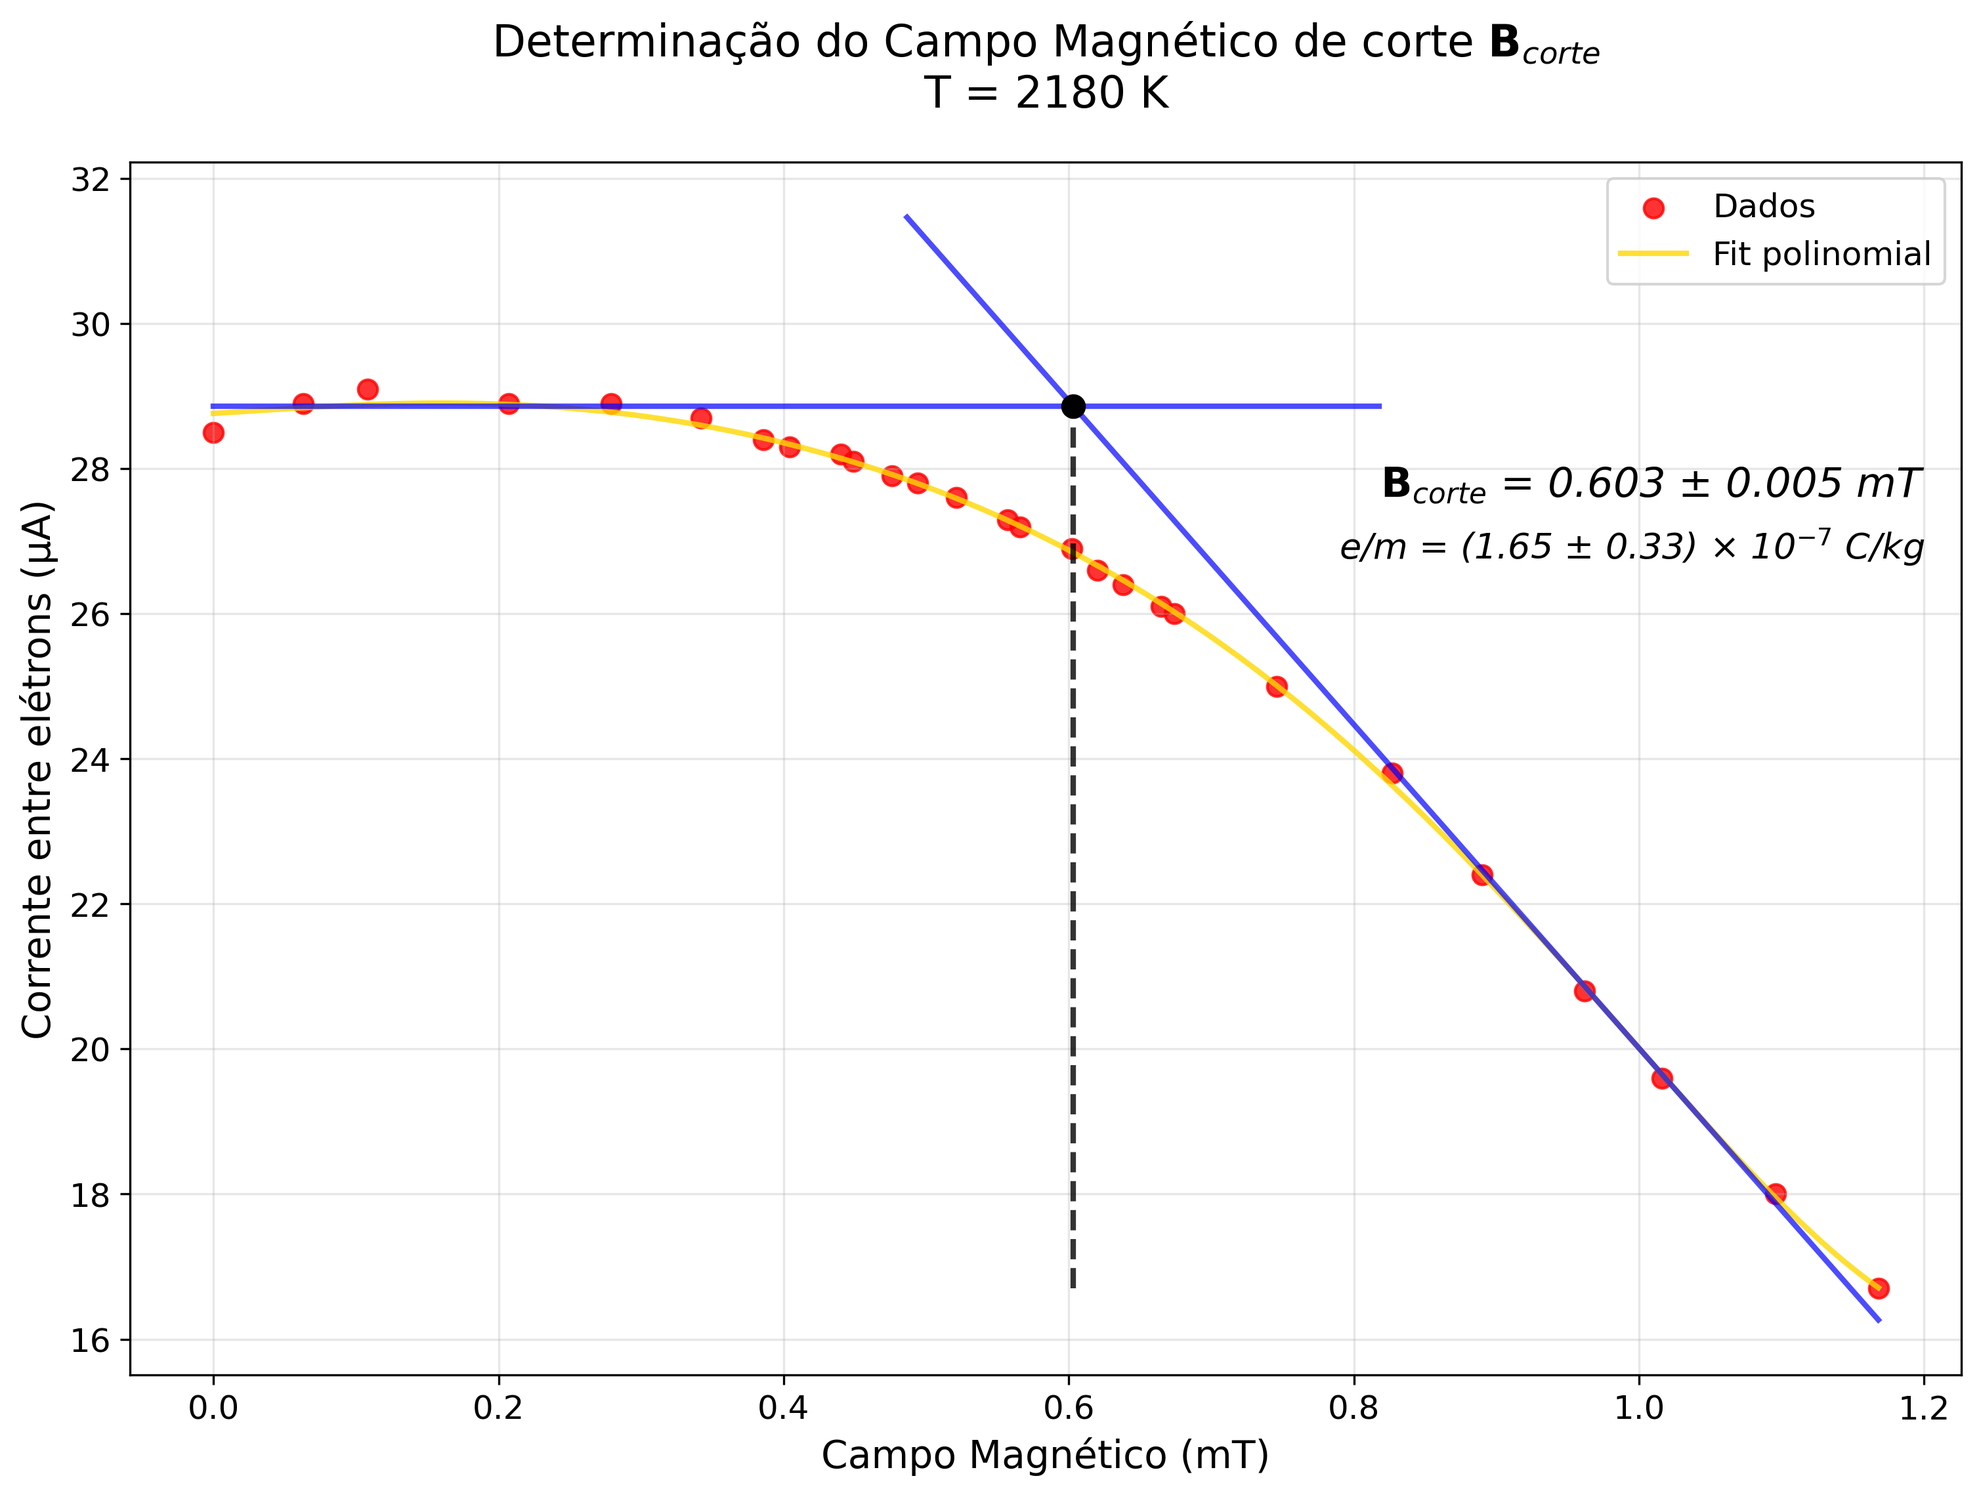
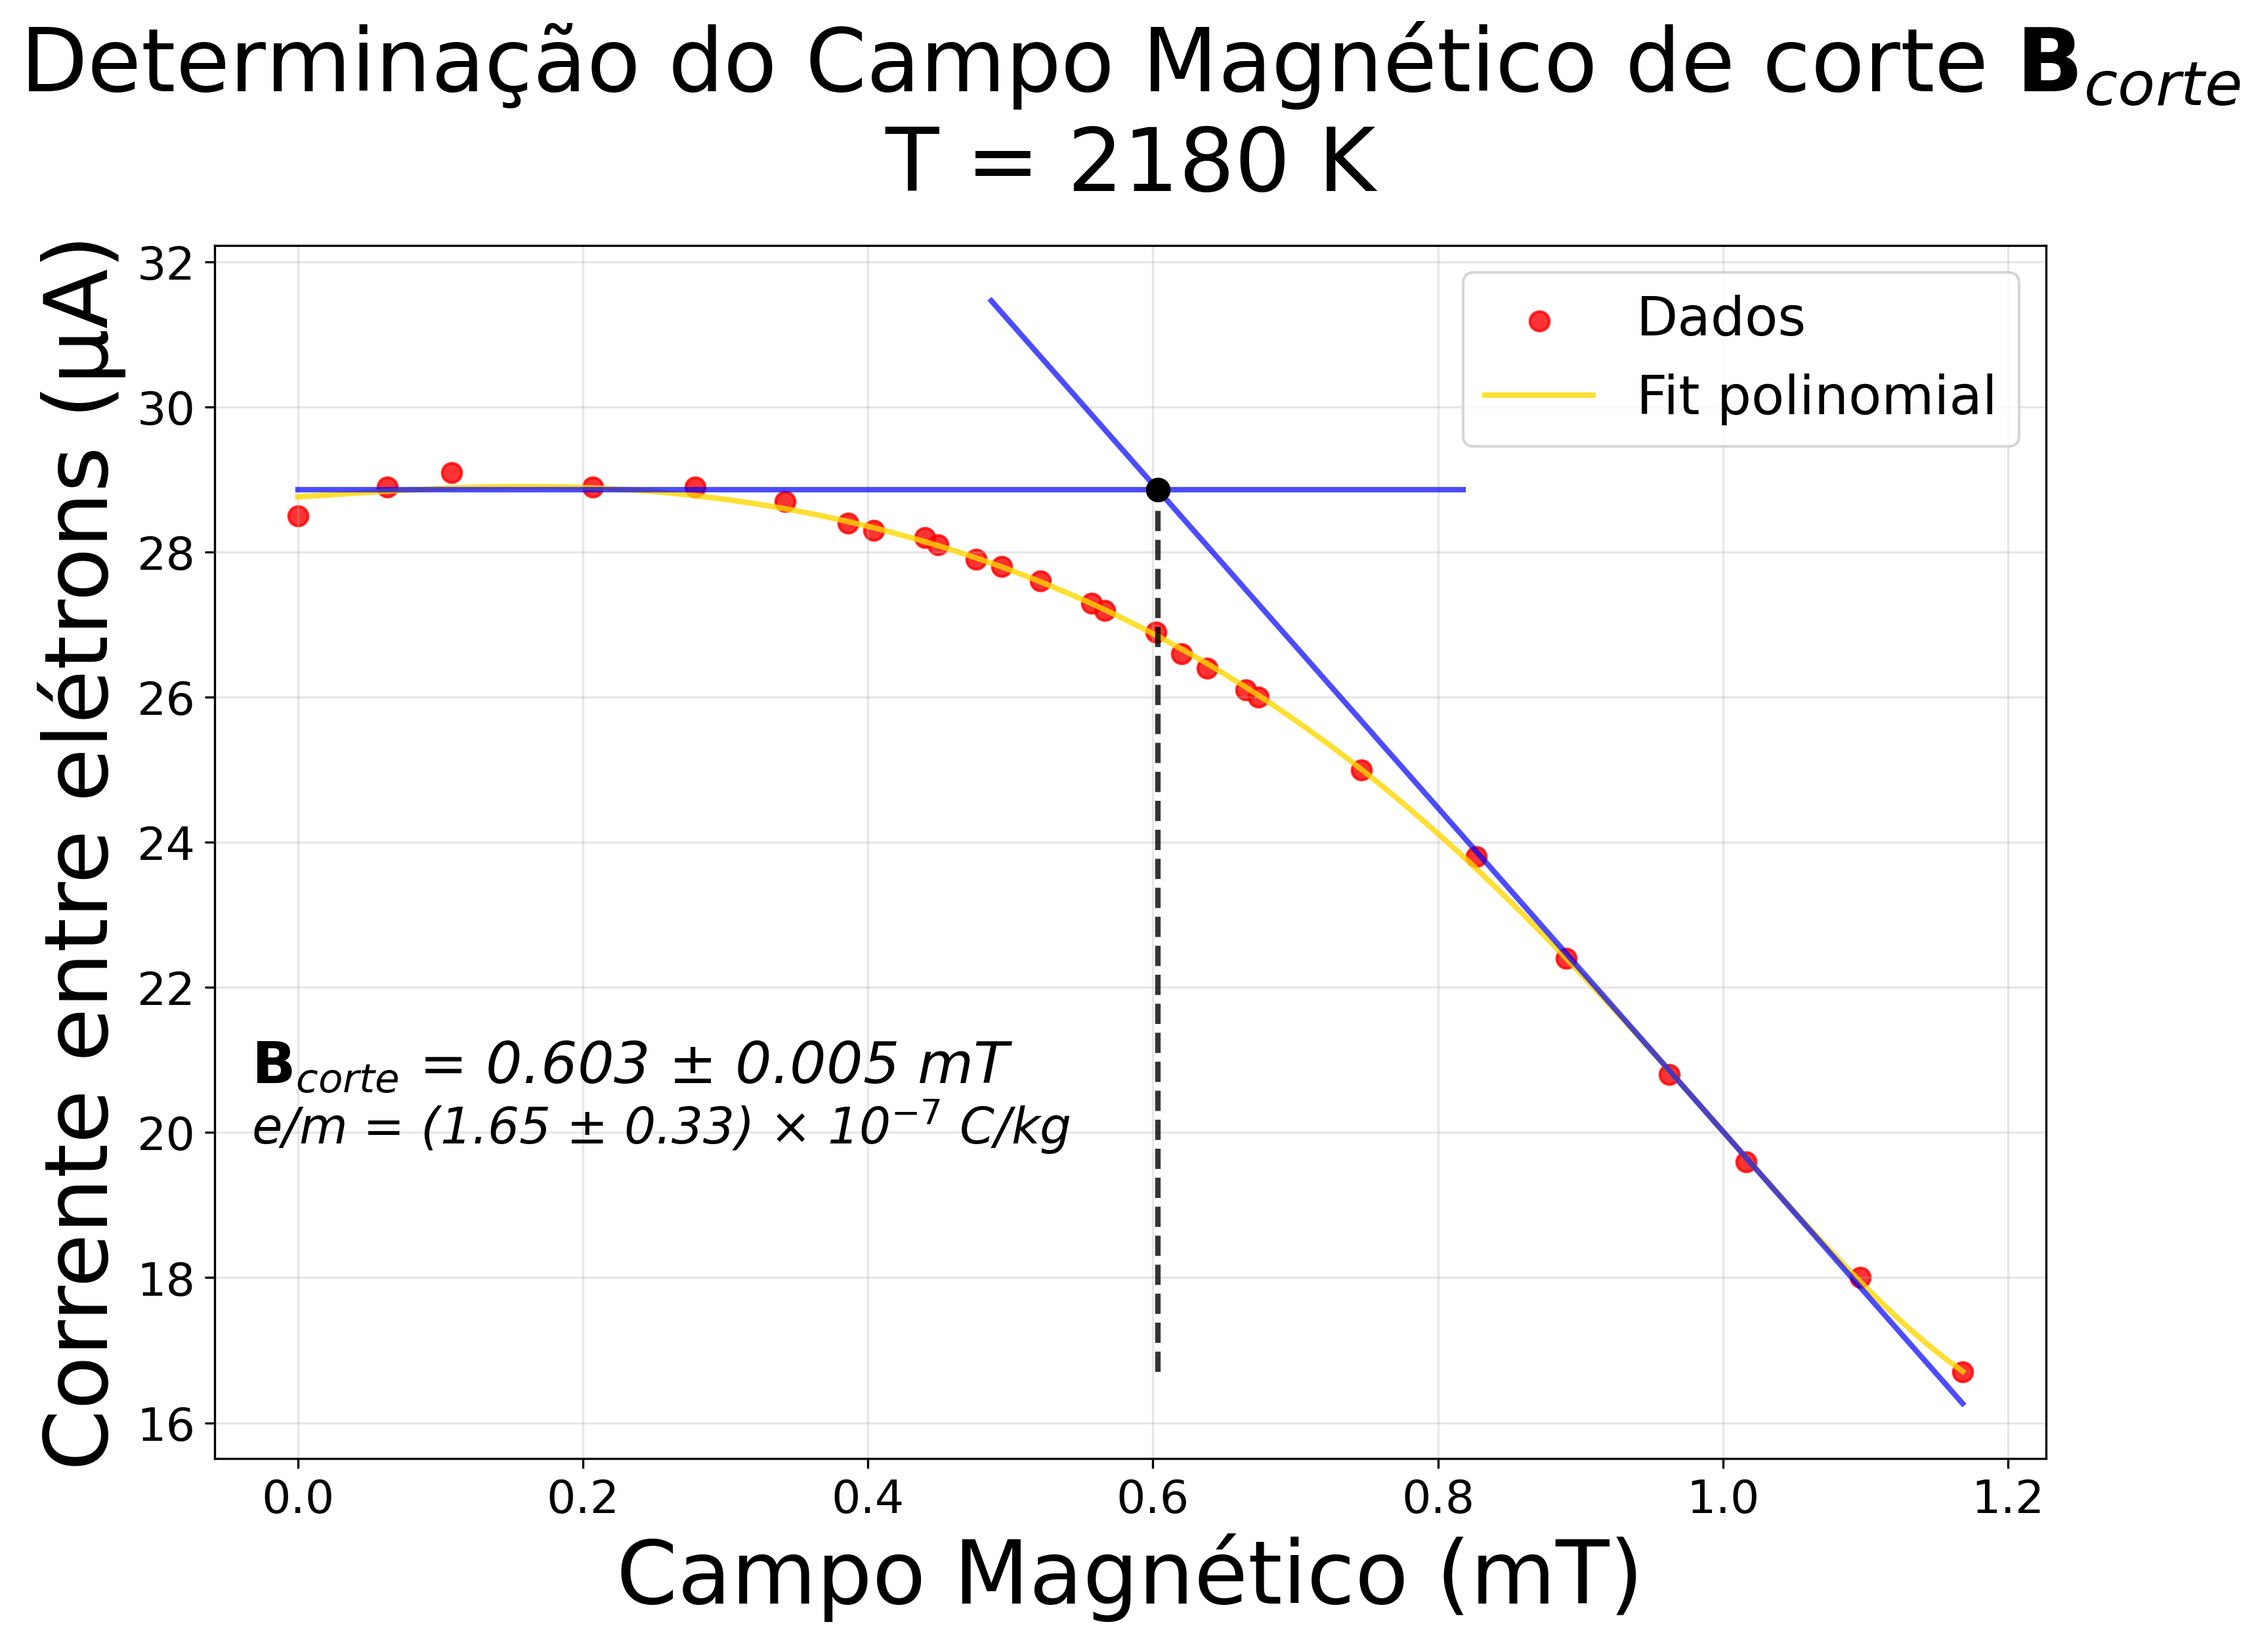
push

diff --git a/1-Termionico/graph5.py b/1-Termionico/graph5.py
@@ -8,7 +8,7 @@ import os
 
 # Configurar matplotlib para melhor visualização
 plt.rcParams['figure.figsize'] = (10, 8)
-plt.rcParams['font.size'] = 12
+plt.rcParams['font.size'] = 16.8
 
 # Função para converter strings com vírgula para float
 def convert_to_float(value):
@@ -435,12 +435,12 @@ for i, info in enumerate(dados):
         print(f"  Erro na segunda reta azul: {e}")
     
     # Configurar o gráfico com novos rótulos
-    ax.set_xlabel('Campo Magnético (mT)', fontsize=14)
-    ax.set_ylabel('Corrente entre elétrons (μA)', fontsize=14)
+    ax.set_xlabel('Campo Magnético (mT)', fontsize=32.032)
+    ax.set_ylabel('Corrente entre elétrons (μA)', fontsize=32.032)
     ax.set_title(f'Determinação do Campo Magnético de corte $\\mathbf{{B}}_{{corte}}$\nT = {temp_kelvin} K', 
-                fontsize=16, pad=20)
+                fontsize=32.032, pad=20)
     ax.grid(True, alpha=0.3)
-    ax.legend(loc='upper right', fontsize=12)
+    ax.legend(loc='upper right', fontsize=19.76)
     
     # Adicionar texto com Bcorte e e/m abaixo da legenda (incluindo incertezas)
     try:
@@ -451,9 +451,9 @@ for i, info in enumerate(dados):
                 em_ratio, sigma_em = calcular_incerteza_em(bcorte_value, bcorte_uncertainty)
                 
                 # Posicionar texto com Bcorte COM incerteza (mais alto)
-                ax.text(0.98, 0.75, f'$\\mathbf{{B}}_{{corte}}$ = {bcorte_value:.3f} ± {bcorte_uncertainty:.3f} mT', 
-                       transform=ax.transAxes, fontsize=15, 
-                       horizontalalignment='right', verticalalignment='top',
+                ax.text(0.02, 0.30, f'$\\mathbf{{B}}_{{corte}}$ = {bcorte_value:.3f} ± {bcorte_uncertainty:.3f} mT', 
+                       transform=ax.transAxes, fontsize=21, 
+                       horizontalalignment='left', verticalalignment='bottom',
                        style='italic', color='black')
                 
                 # Formatar saída com 10^-7 fora dos parênteses
@@ -461,9 +461,9 @@ for i, info in enumerate(dados):
                 sigma_em_scaled = sigma_em * 1e7
                 
                 # Posicionar texto com e/m COM incerteza (mais alto)
-                ax.text(0.98, 0.70, f'e/m = ({em_ratio_scaled:.2f} ± {sigma_em_scaled:.2f}) × 10$^{{-7}}$ C/kg', 
-                       transform=ax.transAxes, fontsize=13, 
-                       horizontalalignment='right', verticalalignment='top',
+                ax.text(0.02, 0.25, f'e/m = ({em_ratio_scaled:.2f} ± {sigma_em_scaled:.2f}) × 10$^{{-7}}$ C/kg', 
+                       transform=ax.transAxes, fontsize=18.2, 
+                       horizontalalignment='left', verticalalignment='bottom',
                        style='italic', color='black')
                 
                 print(f"  e/m = ({em_ratio_scaled:.2f} ± {sigma_em_scaled:.2f}) × 10^-7 C/kg")
@@ -472,14 +472,14 @@ for i, info in enumerate(dados):
                 # Fallback sem incerteza
                 em_ratio = (2 * 4.81) / ((bcorte_value * 0.02)**2) / (10**11)
                 
-                ax.text(0.98, 0.75, f'$\\mathbf{{B}}_{{corte}}$ = {bcorte_value:.3f} mT', 
-                       transform=ax.transAxes, fontsize=16, 
-                       horizontalalignment='right', verticalalignment='top',
+                ax.text(0.02, 0.30, f'$\\mathbf{{B}}_{{corte}}$ = {bcorte_value:.3f} mT', 
+                       transform=ax.transAxes, fontsize=22.4, 
+                       horizontalalignment='left', verticalalignment='bottom',
                        style='italic', color='black')
                 
-                ax.text(0.98, 0.70, f'e/m = {em_ratio:.2e} C/kg', 
-                       transform=ax.transAxes, fontsize=14, 
-                       horizontalalignment='right', verticalalignment='top',
+                ax.text(0.02, 0.25, f'e/m = {em_ratio:.2e} C/kg', 
+                       transform=ax.transAxes, fontsize=19.76, 
+                       horizontalalignment='left', verticalalignment='bottom',
                        style='italic', color='black')
                 
                 print(f"  e/m = {em_ratio:.2e} C/kg (sem incerteza)")

diff --git a/1-Termionico/graph2.py b/1-Termionico/graph2.py
@@ -5,7 +5,7 @@ from scipy import stats
 
 # Configurar matplotlib para melhor visualização
 plt.rcParams['figure.figsize'] = (10, 8)
-plt.rcParams['font.size'] = 12
+plt.rcParams['font.size'] = 16.8
 
 # Função para converter strings com vírgula para float
 def convert_to_float(value):
@@ -62,24 +62,24 @@ if len(x_valid) > 1:
            label='Fit linear')
 
 # Configurar o gráfico
-ax.set_xlabel(x_label, fontsize=14)
-ax.set_ylabel(y_label, fontsize=14)
-ax.set_title('Verificação da lei de Child-Langmuir', fontsize=16, pad=20)
+ax.set_xlabel(x_label, fontsize=32.032)
+ax.set_ylabel(y_label, fontsize=32.032)
+ax.set_title('Verificação da lei de Child-Langmuir', fontsize=32.032, pad=20)
 
 # Configurar a legenda no topo esquerdo
-ax.legend(loc='upper left', frameon=True, fancybox=True, shadow=True)
+ax.legend(loc='center left', frameon=True, fancybox=True, shadow=True, fontsize=19.76)
 
 # Adicionar equação da reta em itálico abaixo da legenda
 if len(x_valid) > 1:
     # Primeira linha: equação
     equation_text = f'y = {slope:.4f}x - {-intercept:.4f}'
     ax.text(0.02, 0.85, equation_text, transform=ax.transAxes, 
-            fontsize=16, style='italic', color='black')
+            fontsize=22.4, style='italic', color='black')
     
     # Segunda linha: coeficiente linear com incerteza
     coef_text = f'Coef. lin. {slope:.4f} ± {std_err:.4f}'
     ax.text(0.02, 0.80, coef_text, transform=ax.transAxes, 
-            fontsize=16, style='italic', color='black')
+            fontsize=22.4, style='italic', color='black')
 
 # Configurar grade
 ax.grid(True, alpha=0.3)

diff --git a/1-Termionico/graph4.py b/1-Termionico/graph4.py
@@ -5,7 +5,7 @@ from scipy import stats
 
 # Configurar matplotlib para melhor visualização
 plt.rcParams['figure.figsize'] = (10, 8)
-plt.rcParams['font.size'] = 12
+plt.rcParams['font.size'] = 16.8
 
 # Função para converter strings com vírgula para float
 def convert_to_float(value):
@@ -82,23 +82,23 @@ if len(x_valid) > 1:
            label='Ajuste linear')
 
 # Configurar o gráfico
-ax.set_xlabel('1/T (1/K)', fontsize=14)
-ax.set_ylabel(y_label, fontsize=14)
-ax.set_title('Descobrindo W do Tungstênio', fontsize=16, pad=20)
+ax.set_xlabel('1/T (1/K)', fontsize=32.032)
+ax.set_ylabel(y_label, fontsize=32.032)
+ax.set_title('Descobrindo W do Tungstênio', fontsize=32.032, pad=20)
 
 # Configurar a legenda no topo esquerdo
-ax.legend(loc='upper right', frameon=True, fancybox=True, shadow=True)
+ax.legend(loc='center right', frameon=True, fancybox=True, shadow=True, fontsize=19.76)
 
 # Adicionar equação da reta e valor de W em itálico
 if len(x_valid) > 1:
     equation_text = f'Coef. lin. y = {slope:.4f}x + {intercept:.4f}'
     ax.text(0.98, 0.85, equation_text, transform=ax.transAxes, 
-            fontsize=16, style='italic', ha='right', color='black')
+            fontsize=22.4, style='italic', ha='right', color='black')
     
     # Adicionar valor de W com incerteza
     W_text = f'W = ({W_value:.4f} ± {W_uncertainty:.4f}) eV'
     ax.text(0.98, 0.80, W_text, transform=ax.transAxes, 
-            fontsize=16, style='italic', ha='right', color='black')
+            fontsize=22.4, style='italic', ha='right', color='black')
 
 # Configurar grade
 ax.grid(True, alpha=0.3)

diff --git a/1-Termionico/graph3.py b/1-Termionico/graph3.py
@@ -6,7 +6,7 @@ from scipy.optimize import curve_fit
 
 # Configurar matplotlib para melhor visualização
 plt.rcParams['figure.figsize'] = (10, 8)
-plt.rcParams['font.size'] = 12
+plt.rcParams['font.size'] = 16.8
 
 # Função para converter strings com vírgula para float
 def convert_to_float(value):
@@ -91,19 +91,19 @@ if len(x_valid) > 3:
         fit_success = False
 
 # Configurar o gráfico
-ax.set_xlabel(x_label, fontsize=14)
-ax.set_ylabel(y_label, fontsize=14)
+ax.set_xlabel(x_label, fontsize=19.76)
+ax.set_ylabel(y_label, fontsize=19.76)
 
 # Criar título com informações do ajuste exponencial
 if len(x_valid) > 3 and fit_success:
     # Formatear a equação exponencial
     eq_str = f"y = {a:.2e}·exp({b:.2e}·x) + {c:.2e}"
-    ax.set_title('Verificando Lei de Richardson-Dushman', fontsize=16, pad=20)
+    ax.set_title('Verificando Lei de Richardson-Dushman', fontsize=22.4, pad=20)
 else:
-    ax.set_title('Verificando Lei de Richardson-Dushman', fontsize=16, pad=20)
+    ax.set_title('Verificando Lei de Richardson-Dushman', fontsize=22.4, pad=20)
 
 # Configurar a legenda
-ax.legend(loc='best', frameon=True, fancybox=True, shadow=True)
+ax.legend(loc='best', frameon=True, fancybox=True, shadow=True, fontsize=19.76)
 
 # Configurar grade
 ax.grid(True, alpha=0.3)

diff --git a/1-Termionico/graph.py b/1-Termionico/graph.py
@@ -6,7 +6,7 @@ from scipy.optimize import curve_fit
 
 # Configurar matplotlib para melhor visualização
 plt.rcParams['figure.figsize'] = (10, 8)
-plt.rcParams['font.size'] = 12
+plt.rcParams['font.size'] = 16.8
 
 # Ler os dados do CSV
 df = pd.read_csv('data.csv', delimiter=',', decimal=',')
@@ -123,19 +123,19 @@ for i, temp in enumerate(temperaturas):
                   label=f'T = {temp:.0f} K (poucos pontos)')
 
 # Configurar o gráfico
-ax.set_xlabel('Tensão (V)', fontsize=14)
-ax.set_ylabel('Corrente (mA)', fontsize=14)
-ax.set_title('Corrente vs Tensão para diferentes temperaturas', fontsize=16, pad=20)
+ax.set_xlabel('Tensão (V)', fontsize=32.032)
+ax.set_ylabel('Corrente (mA)', fontsize=32.032)
+ax.set_title('Corrente vs Tensão para diferentes temperaturas', fontsize=32.032, pad=20)
 
 # Configurar a legenda
-ax.legend(loc='upper left', frameon=True, fancybox=True, shadow=True)
+ax.legend(loc='upper left', frameon=True, fancybox=True, shadow=True, fontsize=19.76)
 
 # Configurar grade
 ax.grid(True, alpha=0.3)
 
 # Configurar limites dos eixos para melhor visualização
 ax.set_xlim(0, max(tensao) * 1.05)
-ax.set_ylim(0, None)
+ax.set_ylim(0, max(corrente) * 1.4)
 
 # Melhorar o layout
 plt.tight_layout()
